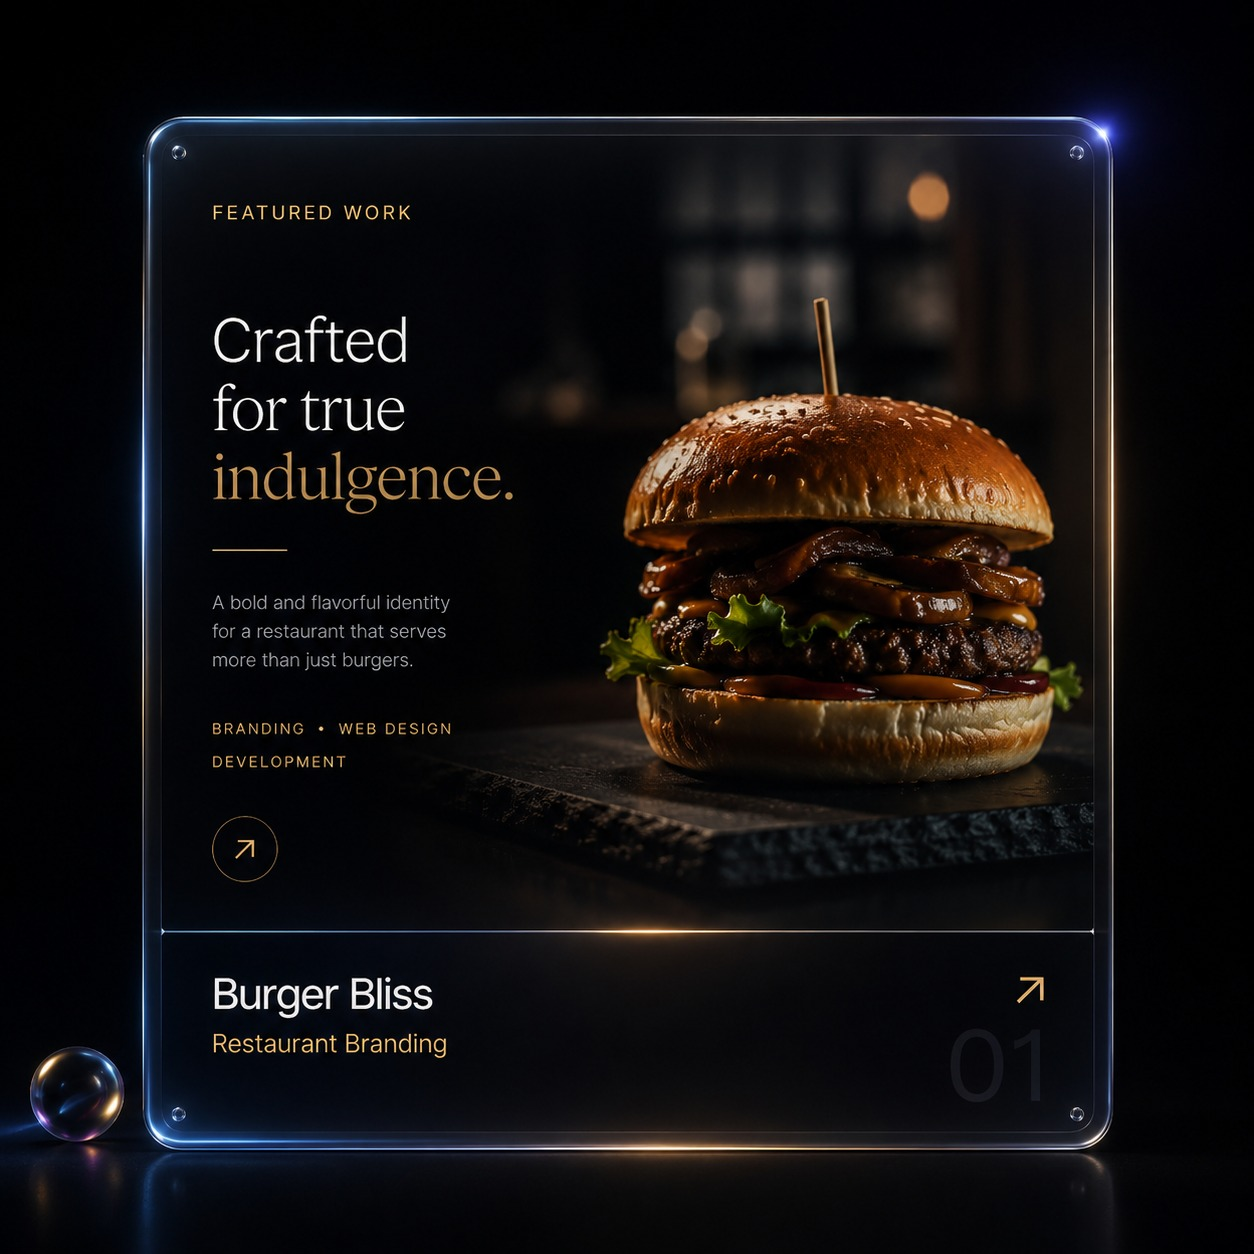
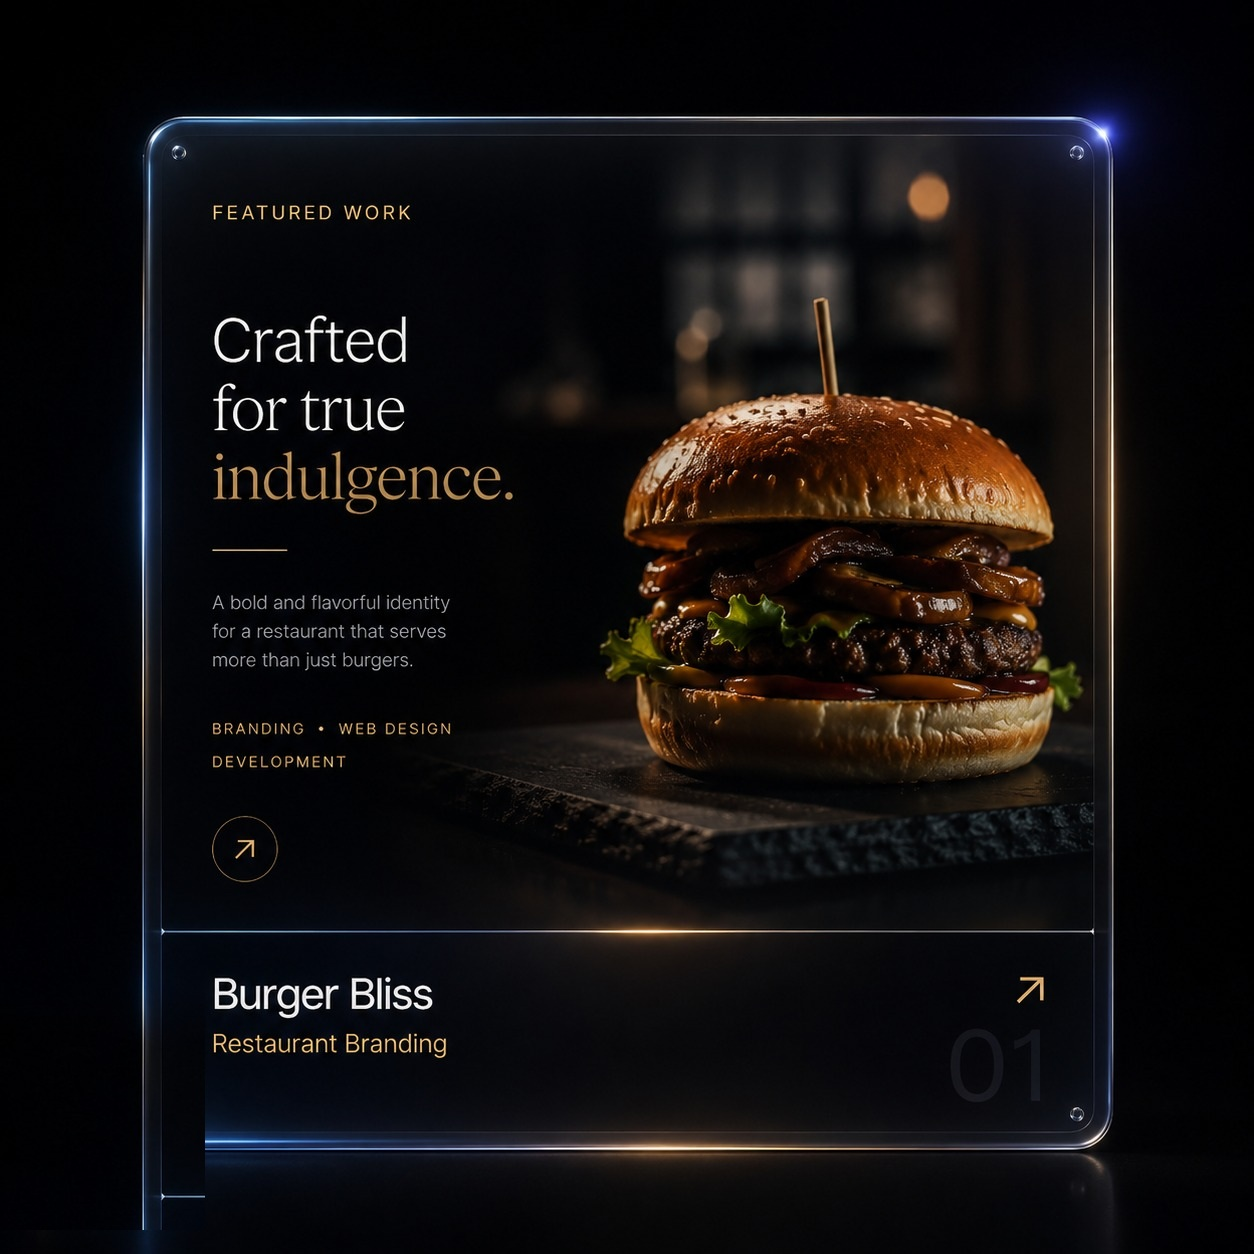
Remove bubble prop from featured thumbnails and straighten tile alignment

Changed region(s): [[0.0, 0.8086, 0.1866, 0.9641]]

diff --git a/src/pages/Home.tsx b/src/pages/Home.tsx
@@ -240,43 +240,18 @@ export default function Home() {
           </Link>
         </Reveal>
 
-        <div className="relative mt-16 flex flex-col items-center gap-14 py-8 sm:mt-20 sm:flex-row sm:items-center sm:justify-center sm:gap-0">
-          {featured.map((p, i) => {
-            const cfg = [
-              {
-                size: "w-[clamp(220px,29vw,460px)]",
-                tilt: "sm:rotate-[-6deg]",
-                scale: "sm:scale-[0.88]",
-                hoverScale: "sm:group-hover:!scale-[0.94]",
-                wrap: "sm:mt-12 sm:-mr-10 lg:-mr-16 sm:z-10",
-              },
-              {
-                size: "w-[clamp(260px,34vw,540px)]",
-                tilt: "",
-                scale: "sm:scale-[1.05]",
-                hoverScale: "sm:group-hover:!scale-[1.1]",
-                wrap: "sm:z-20",
-              },
-              {
-                size: "w-[clamp(220px,29vw,460px)]",
-                tilt: "sm:rotate-[6deg]",
-                scale: "sm:scale-[0.88]",
-                hoverScale: "sm:group-hover:!scale-[0.94]",
-                wrap: "sm:mt-12 sm:-ml-10 lg:-ml-16 sm:z-10",
-              },
-            ][i];
-            return (
-              <Reveal key={p.slug} delay={i * 100}>
-                <Link to={`/projects/${p.slug}`} className={`group relative block hover:z-30 ${cfg.wrap}`}>
-                  <img
-                    src={featuredThumbnails[p.slug]}
-                    alt={`${p.name} — ${p.category}`}
-                    className={`${cfg.size} aspect-square rounded-xl object-cover shadow-[0_45px_120px_-30px_rgba(0,0,0,0.85)] transition-transform duration-500 ease-[var(--ease-lux)] ${cfg.tilt} ${cfg.scale} sm:group-hover:!-translate-y-2 sm:group-hover:!rotate-0 ${cfg.hoverScale}`}
-                  />
-                </Link>
-              </Reveal>
-            );
-          })}
+        <div className="relative mt-16 grid gap-10 py-8 sm:mt-20 sm:grid-cols-3 lg:gap-12">
+          {featured.map((p, i) => (
+            <Reveal key={p.slug} delay={i * 100}>
+              <Link to={`/projects/${p.slug}`} className="group relative block">
+                <img
+                  src={featuredThumbnails[p.slug]}
+                  alt={`${p.name} — ${p.category}`}
+                  className="aspect-square w-full rounded-xl object-cover shadow-[0_35px_90px_-30px_rgba(0,0,0,0.8)] transition-transform duration-500 ease-[var(--ease-lux)] group-hover:-translate-y-2 group-hover:scale-[1.02]"
+                />
+              </Link>
+            </Reveal>
+          ))}
         </div>
       </section>
 
